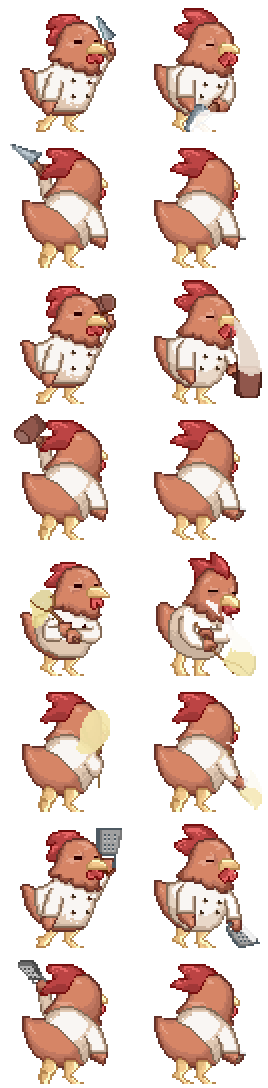
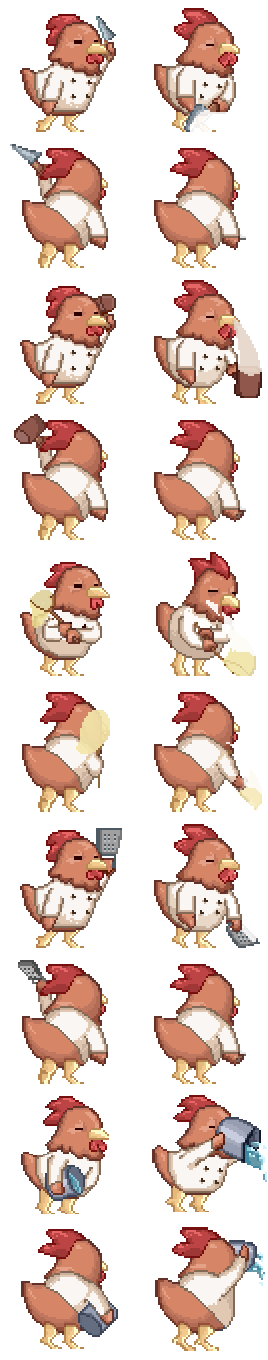
Gallina Cubo

diff --git a/AnimalCooking/Resources.cpp b/AnimalCooking/Resources.cpp
@@ -349,9 +349,9 @@ vector<Resources::SpritesheetInfo> Resources::spritesheets_{
     {AllLevels, PigIdle, "../AnimalCooking/resources/images/Animaciones/Cerdo/idle.png",24,8},
 	{AllLevels, PigWalk, "../AnimalCooking/resources/images/Animaciones/Cerdo/andar.png",24,4},
 	{AllLevels, PigAttack, "../AnimalCooking/resources/images/Animaciones/Cerdo/ataque.png",10,2},
-	{AllLevels, ChickenIdle, "../AnimalCooking/resources/images/Animaciones/Gallina/idle.png",20,8},
-	{AllLevels, ChickenWalk, "../AnimalCooking/resources/images/Animaciones/Gallina/andar.png",20,4},
-	{AllLevels, ChickenAttack, "../AnimalCooking/resources/images/Animaciones/Gallina/ataque.png",8,2},
+	{AllLevels, ChickenIdle, "../AnimalCooking/resources/images/Animaciones/Gallina/idle.png",24,8},
+	{AllLevels, ChickenWalk, "../AnimalCooking/resources/images/Animaciones/Gallina/andar.png",24,4},
+	{AllLevels, ChickenAttack, "../AnimalCooking/resources/images/Animaciones/Gallina/ataque.png",10,2},
     {AllLevels, Tomato,"../AnimalCooking/resources/images/Ingredientes/tomate.png",3,2},
 	{AllLevels, Potato,"../AnimalCooking/resources/images/Ingredientes/patata.png",3,2},
 	{AllLevels, Clam,"../AnimalCooking/resources/images/Ingredientes/vieira.png",3,2},
